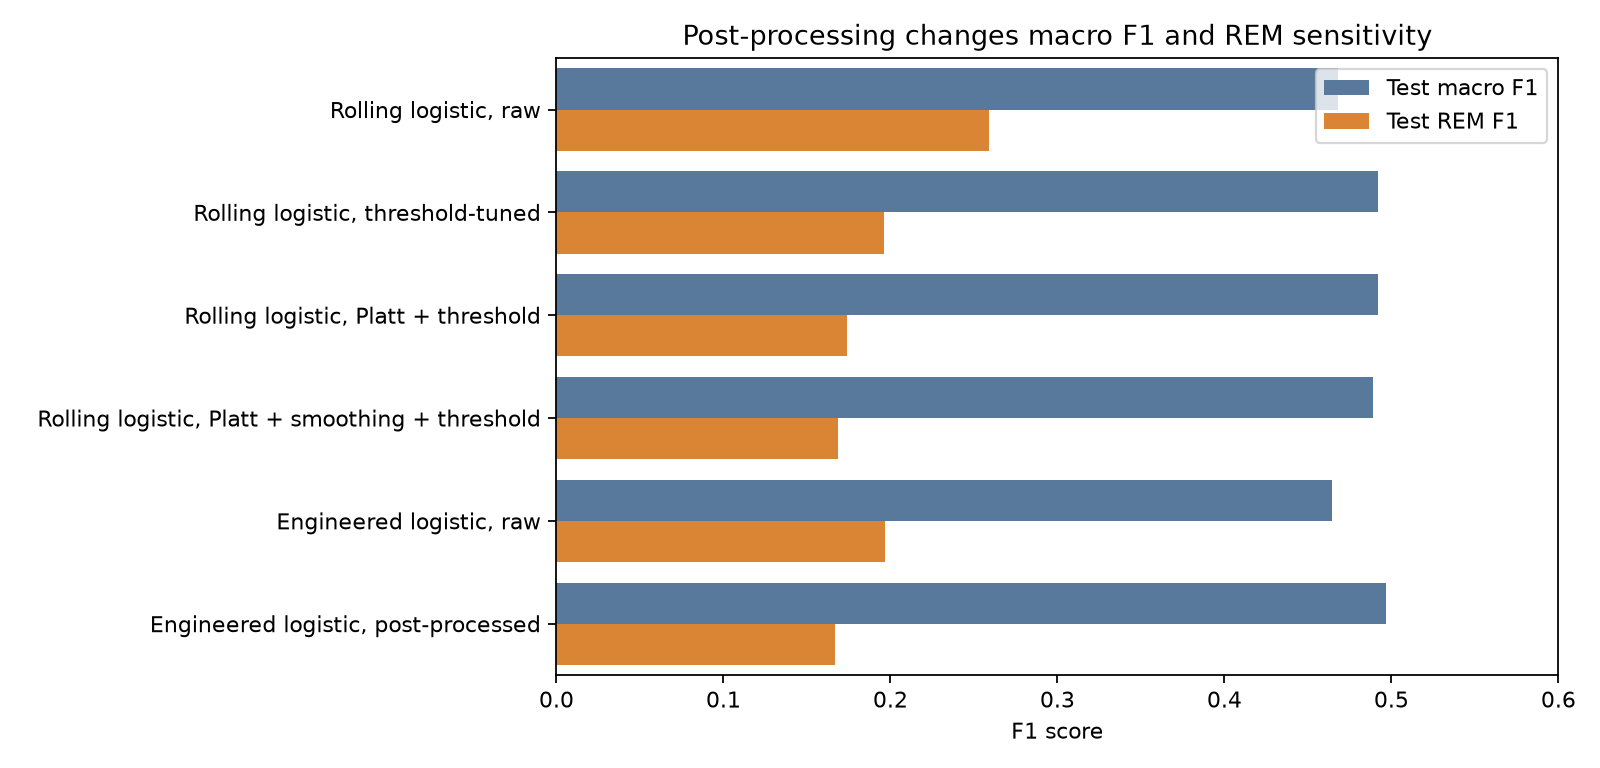
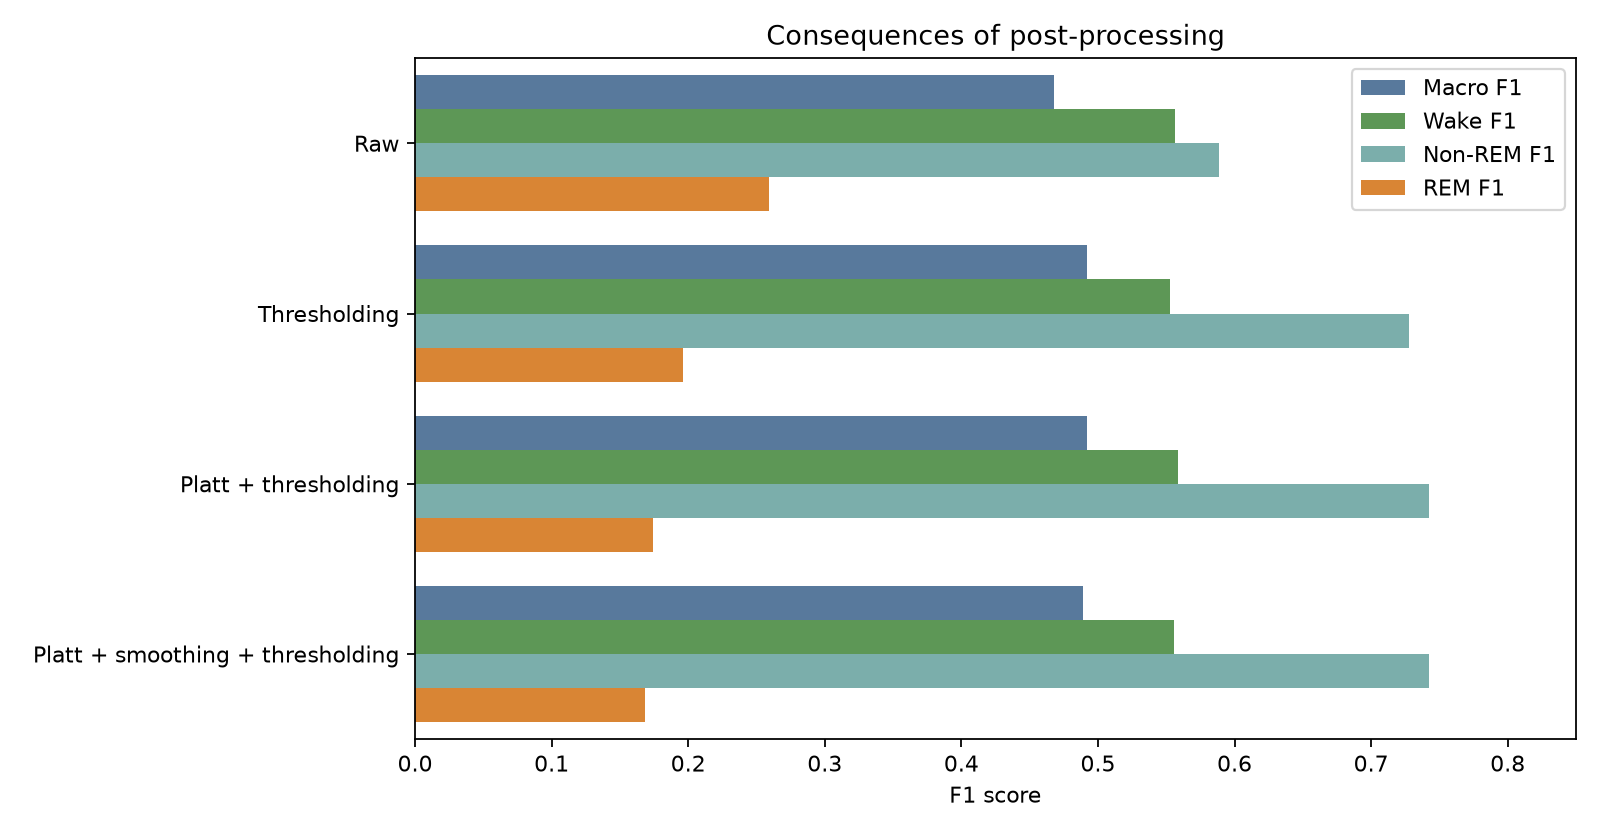
Update plot in key results section

diff --git a/scripts/generate_readme_figures.py b/scripts/generate_readme_figures.py
@@ -31,16 +31,19 @@ DISPLAY_NAMES = {
     (
         "statistical_summary_only",
         "platt_smoothed_threshold_tuned",
-    ): "Statistical-summary elastic-net logistic, post-processed",
+    ): "Statistical-summary logistic, Platt + smoothing + thresholding",
     (
         "best_original_ablation",
         "platt_smoothed_threshold_tuned",
-    ): "Engineered-feature elastic-net logistic, post-processed",
-    ("interpretable_rolling_logistic", "raw"): "Interpretable rolling logistic, raw",
+    ): "All engineered-feature logistic, Platt + smoothing + thresholding",
+    (
+        "interpretable_rolling_logistic",
+        "raw",
+    ): "Movement + cardiovascular rolling logistic, raw",
     (
         "interpretable_rolling_logistic",
         "raw_threshold_tuned",
-    ): "Interpretable rolling logistic, threshold-tuned",
+    ): "Movement + cardiovascular rolling logistic, thresholding",
 }
 
 
@@ -176,49 +179,46 @@ def write_interpretation_summary() -> None:
 def make_postprocessing_tradeoff_figure() -> None:
     metrics = pd.read_csv(FINAL / "locked_test_metrics.csv")
     selected = metrics[
-        (
-            (metrics["candidate"] == "interpretable_rolling_logistic")
-            & metrics["variant"].isin(
-                [
-                    "raw",
-                    "raw_threshold_tuned",
-                    "platt_threshold_tuned",
-                    "platt_smoothed_threshold_tuned",
-                ]
-            )
-        )
-        | (
-            (metrics["candidate"] == "best_original_ablation")
-            & metrics["variant"].isin(["raw", "platt_smoothed_threshold_tuned"])
+        (metrics["candidate"] == "interpretable_rolling_logistic")
+        & metrics["variant"].isin(
+            [
+                "raw",
+                "raw_threshold_tuned",
+                "platt_threshold_tuned",
+                "platt_smoothed_threshold_tuned",
+            ]
         )
     ].copy()
     selected["display_name"] = [
-        _variant_label(candidate, variant)
-        for candidate, variant in zip(
-            selected["candidate"], selected["variant"], strict=True
-        )
+        _postprocessing_variant_label(variant)
+        for variant in selected["variant"]
     ]
     plot_frame = selected.melt(
         id_vars=["display_name"],
-        value_vars=["macro_f1", "REM_f1"],
+        value_vars=["macro_f1", "Wake_f1", "Non_REM_f1", "REM_f1"],
         var_name="metric",
         value_name="score",
     )
-    metric_names = {"macro_f1": "Test macro F1", "REM_f1": "Test REM F1"}
+    metric_names = {
+        "macro_f1": "Macro F1",
+        "Wake_f1": "Wake F1",
+        "Non_REM_f1": "Non-REM F1",
+        "REM_f1": "REM F1",
+    }
     plot_frame["metric"] = plot_frame["metric"].map(metric_names)
 
-    plt.figure(figsize=(10, 4.8))
+    plt.figure(figsize=(10, 5.2))
     ax = sns.barplot(
         data=plot_frame,
         x="score",
         y="display_name",
         hue="metric",
-        palette=["#4c78a8", "#f58518"],
+        palette=["#4c78a8", "#54a24b", "#72b7b2", "#f58518"],
     )
-    ax.set_xlim(0, 0.6)
+    ax.set_xlim(0, 0.85)
     ax.set_xlabel("F1 score")
     ax.set_ylabel("")
-    ax.set_title("Post-processing changes macro F1 and REM sensitivity")
+    ax.set_title("Consequences of post-processing")
     ax.legend(title="")
     plt.tight_layout()
     plt.savefig(FIGURES / "postprocessing_tradeoff.png", dpi=160)
@@ -390,8 +390,9 @@ curated evidence set.
 
 ## Figures
 
-- `figures/postprocessing_tradeoff.png` compares test macro F1 and REM F1
-  across selected raw and post-processed variants.
+- `figures/postprocessing_tradeoff.png` compares test macro F1, Wake F1,
+  Non-REM F1, and REM F1 across the main interpretable rolling logistic
+  variants.
 - `figures/transition_distance_macro_f1.png` summarizes locked-test macro F1 by
   distance to the nearest true sleep-stage transition.
 - `figures/rolling_logistic_rem_contrast.png` shows the largest standardized
@@ -444,6 +445,16 @@ def _variant_label(candidate: str, variant: str) -> str:
         ): "Rolling logistic, Platt + smoothing + threshold",
     }
     return labels[(candidate, variant)]
+
+
+def _postprocessing_variant_label(variant: str) -> str:
+    labels = {
+        "raw": "Raw",
+        "raw_threshold_tuned": "Thresholding",
+        "platt_threshold_tuned": "Platt + thresholding",
+        "platt_smoothed_threshold_tuned": "Platt + smoothing + thresholding",
+    }
+    return labels[variant]
 
 
 if __name__ == "__main__":

diff --git a/README.md b/README.md
@@ -24,7 +24,7 @@ This repository extends the [`dreamt-wearable-sleep-staging`](https://github.com
 - **Comparison to DL benchmark:** The previous project's transition-regularized
   61-epoch MSResCNN-MLP-TCN reached **0.501** test macro F1 on the same label
   mapping and participant-level split.
-- **Most interpretable model:** The pruned rolling elastic-net logistic
+- **Interpretable model with comparable performance:** The pruned rolling elastic-net logistic
   model remained close to the best feature-engineered model after threshold
   tuning, **0.492** test macro F1, while exposing readable coefficient-level
   associations.
@@ -37,21 +37,21 @@ The table below summarizes model performance. Per-class F1 scores are reported o
 | ----- | ------------------: | ------------: | ------: | ---------: | -----: |
 | Majority-class baseline | 0.276 | 0.266 | 0.000 | **0.797** | 0.000 |
 | Stratified-random baseline | 0.326 | 0.337 | 0.248 | 0.649 | 0.114 |
-| Statistical-summary elastic-net logistic, post-processed | 0.438 | 0.445 | 0.542 | 0.689 | 0.105 |
-| Engineered-feature elastic-net logistic, post-processed | **0.520** | 0.497 | 0.549 | 0.775 | 0.167 |
-| Interpretable rolling logistic, raw | 0.410 | 0.468 | 0.556 | 0.589 | **0.259** |
-| Interpretable rolling logistic, threshold-tuned | 0.481 | 0.492 | 0.553 | 0.727 | 0.196 |
+| Statistical-summary logistic, Platt + smoothing + thresholding | 0.438 | 0.445 | 0.542 | 0.689 | 0.105 |
+| All engineered-feature logistic, Platt + smoothing + thresholding | **0.520** | 0.497 | 0.549 | 0.775 | 0.167 |
+| Movement + cardiovascular rolling logistic, raw | 0.410 | 0.468 | 0.556 | 0.589 | **0.259** |
+| Movement + cardiovascular rolling logistic, thresholding | 0.481 | 0.492 | 0.553 | 0.727 | 0.196 |
 | transition-regularized 61-epoch MSResCNN-MLP-TCN | 0.510 | **0.501** | **0.564** | 0.793 | 0.146 |
 
 Interpretation:
 - The best performing traditional ML model, which used all feature and signal families, achieved performance comparable to the DL benchmark.
-- After threshold tuning, an intepretable elastic-net logistic model that only used rolling context features from the movement and cardiovascular signal families also achieved performance comparable to the DL benchmark (see the next-to-last row).
+- After threshold tuning, an interpretable elastic-net logistic model that only used rolling context features from the movement and cardiovascular signal families also achieved performance comparable to the DL benchmark (see the next-to-last row).
 - Generally, Platt scaling improved probability calibration but not necessarily macro F1; probability smoothing had little to no effect; and per-class threshold tuning improved performance by reducing overprediction of REM.  
 
 
-Using the intepretable elastic-net logistic model, the figure below further illustrates the consequences of the different post-processing techniques used. 
+Using the interpretable elastic-net logistic model, the figure below further illustrates the consequences of the different post-processing techniques used.
 
-![Post-processing tradeoff](results/figures/postprocessing_tradeoff.png)
+![Consequences of post-processing](results/figures/postprocessing_tradeoff.png)
 
 
 ## Main Scientific Findings
@@ -227,4 +227,4 @@ python scripts/run_rolling_logistic_interpretation.py
 
 - Given the relative success of disinguishing `Wake` from `Non-REM` and `REM`, hierarchical modeling may improve performance on sleep states.
 - Results suggest that temporal-context, movement signals, and cardiovascular signals are informative; however, verifying these conclusions on datasets other than DREAMT would strengthen results. 
-- To help assess whether additional complexity earns its keep in this problem, quantify the difference in training time between traditional ML and DL models. 
+- To help assess whether additional complexity earns its keep in this problem, quantify the difference in training time between traditional ML and DL models.

diff --git a/results/MANIFEST.md b/results/MANIFEST.md
@@ -20,8 +20,9 @@ curated evidence set.
 
 ## Figures
 
-- `figures/postprocessing_tradeoff.png` compares test macro F1 and REM F1
-  across selected raw and post-processed variants.
+- `figures/postprocessing_tradeoff.png` compares test macro F1, Wake F1,
+  Non-REM F1, and REM F1 across the main interpretable rolling logistic
+  variants.
 - `figures/transition_distance_macro_f1.png` summarizes locked-test macro F1 by
   distance to the nearest true sleep-stage transition.
 - `figures/rolling_logistic_rem_contrast.png` shows the largest standardized
@@ -36,10 +37,10 @@ identifiers are preserved in `summary/key_results.csv`:
 | --- | --- | --- |
 | Majority-class baseline | majority_class_baseline | raw |
 | Stratified-random baseline | stratified_class_baseline | raw |
-| Statistical-summary elastic-net logistic, post-processed | statistical_summary_only | platt_smoothed_threshold_tuned |
-| Engineered-feature elastic-net logistic, post-processed | best_original_ablation | platt_smoothed_threshold_tuned |
-| Interpretable rolling logistic, raw | interpretable_rolling_logistic | raw |
-| Interpretable rolling logistic, threshold-tuned | interpretable_rolling_logistic | raw_threshold_tuned |
+| Statistical-summary logistic, Platt + smoothing + thresholding | statistical_summary_only | platt_smoothed_threshold_tuned |
+| All engineered-feature logistic, Platt + smoothing + thresholding | best_original_ablation | platt_smoothed_threshold_tuned |
+| Movement + cardiovascular rolling logistic, raw | interpretable_rolling_logistic | raw |
+| Movement + cardiovascular rolling logistic, thresholding | interpretable_rolling_logistic | raw_threshold_tuned |
 | Previous project: transition-regularized 61-epoch MSResCNN-MLP-TCN | stage19_best_equal_weight_seed_ensemble_lambda_0.05 | external_comparison |
 
 ## Regeneration
